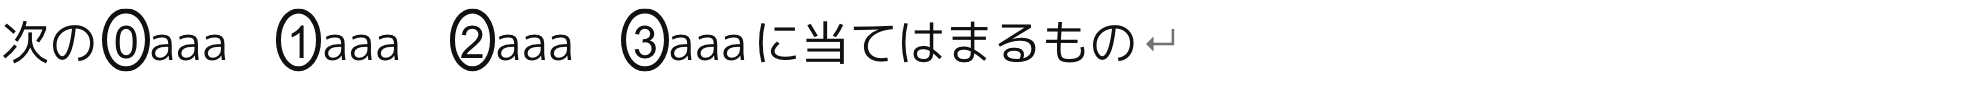
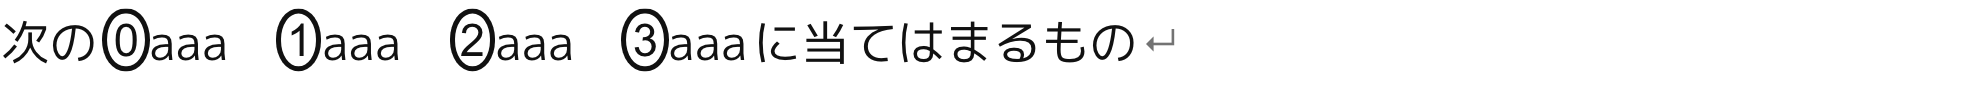
Raise internal choice digits by half a point

diff --git a/apps/desktop/src/lib/math-macros.ts b/apps/desktop/src/lib/math-macros.ts
@@ -44,7 +44,7 @@ export const SIGMA_MATHLIVE_MACRO_STYLES = String.raw`
   line-height: 1;
   /* Arial digits sit slightly above their line-box center. Use a font-relative
      optical correction, independent of the oval's paragraph baseline. */
-  transform: translateY(0.035em);
+  transform: translateY(calc(0.035em - 0.5pt));
   transform-origin: center;
 }
 

diff --git a/apps/desktop/src/app/document-surface.css b/apps/desktop/src/app/document-surface.css
@@ -283,7 +283,7 @@
   line-height: 1;
   /* Arial digits sit slightly above their line-box center. Use a font-relative
      optical correction, independent of the oval's paragraph baseline. */
-  transform: translateY(0.035em);
+  transform: translateY(calc(0.035em - 0.5pt));
   transform-origin: center;
 }
 
